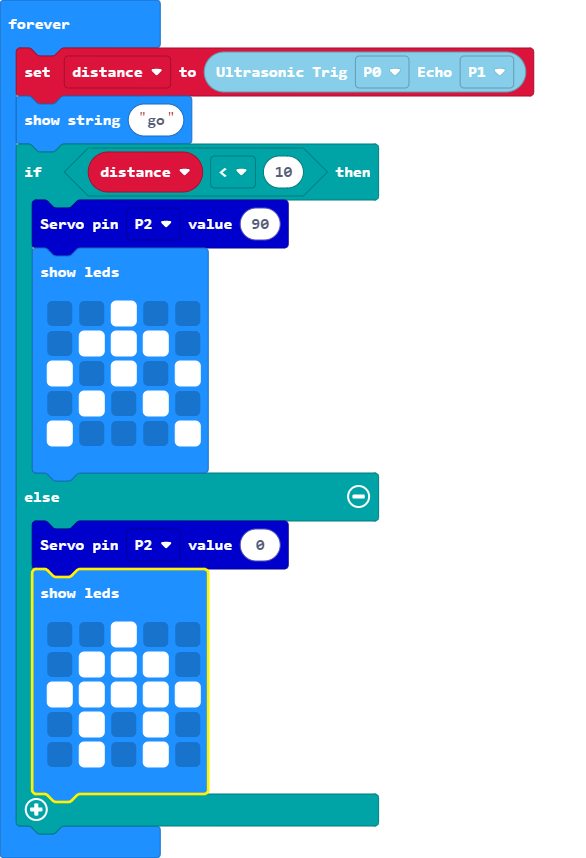
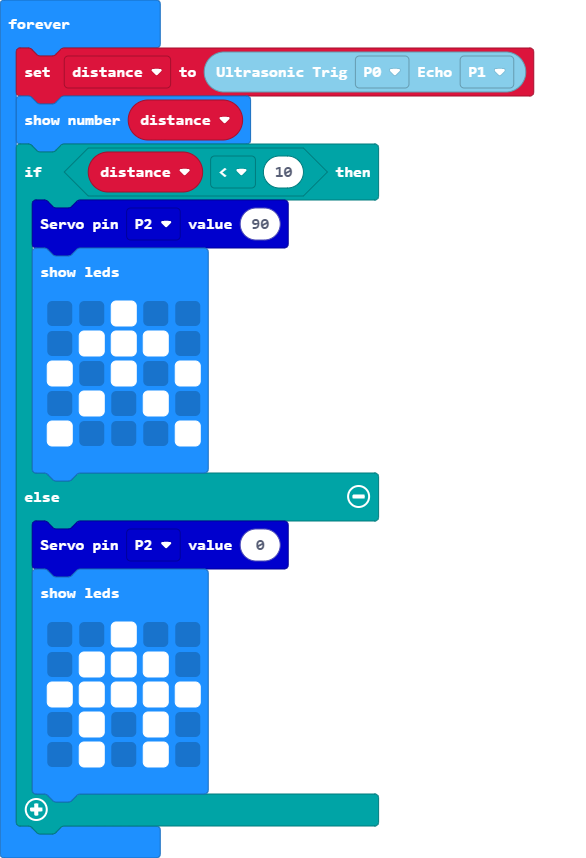
Update main.blocks, main.ts

diff --git a/main.ts b/main.ts
@@ -1,7 +1,7 @@
 let distance = 0
 basic.forever(function () {
     distance = mbit_传感器类.Ultrasonic(DigitalPin.P0, DigitalPin.P1)
-    basic.showString("go")
+    basic.showNumber(distance)
     if (distance < 10) {
         mbit_电机类.Servo(AnalogPin.P2, 90)
         basic.showLeds(`
